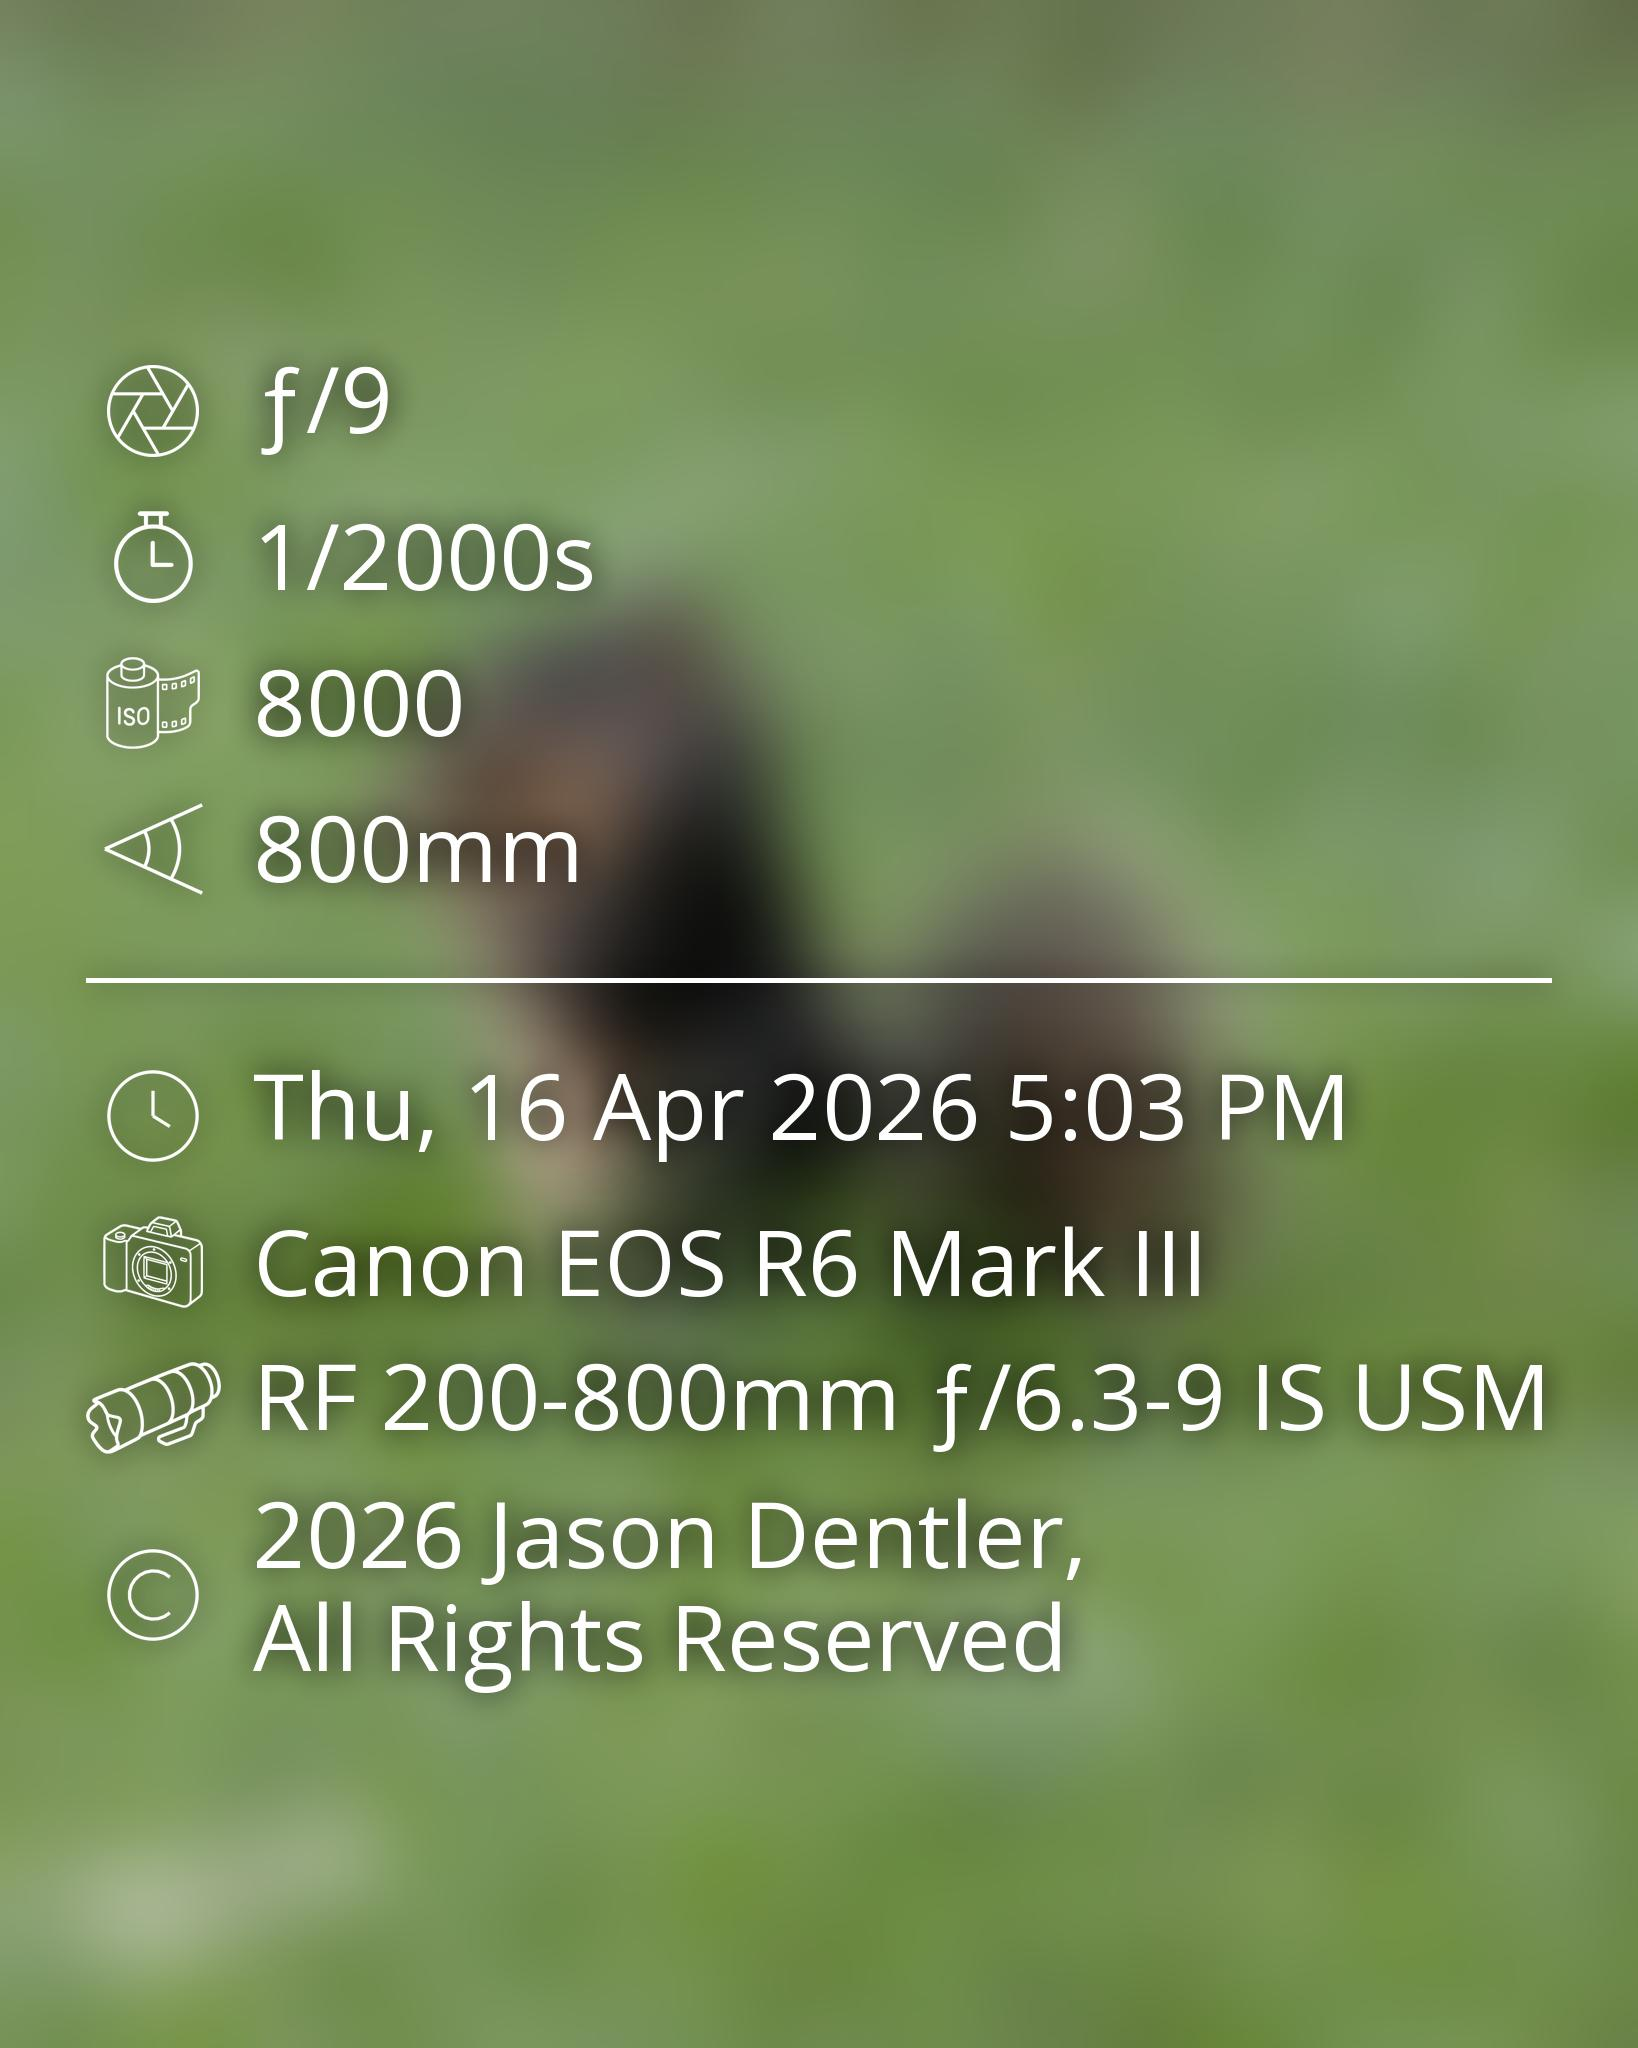
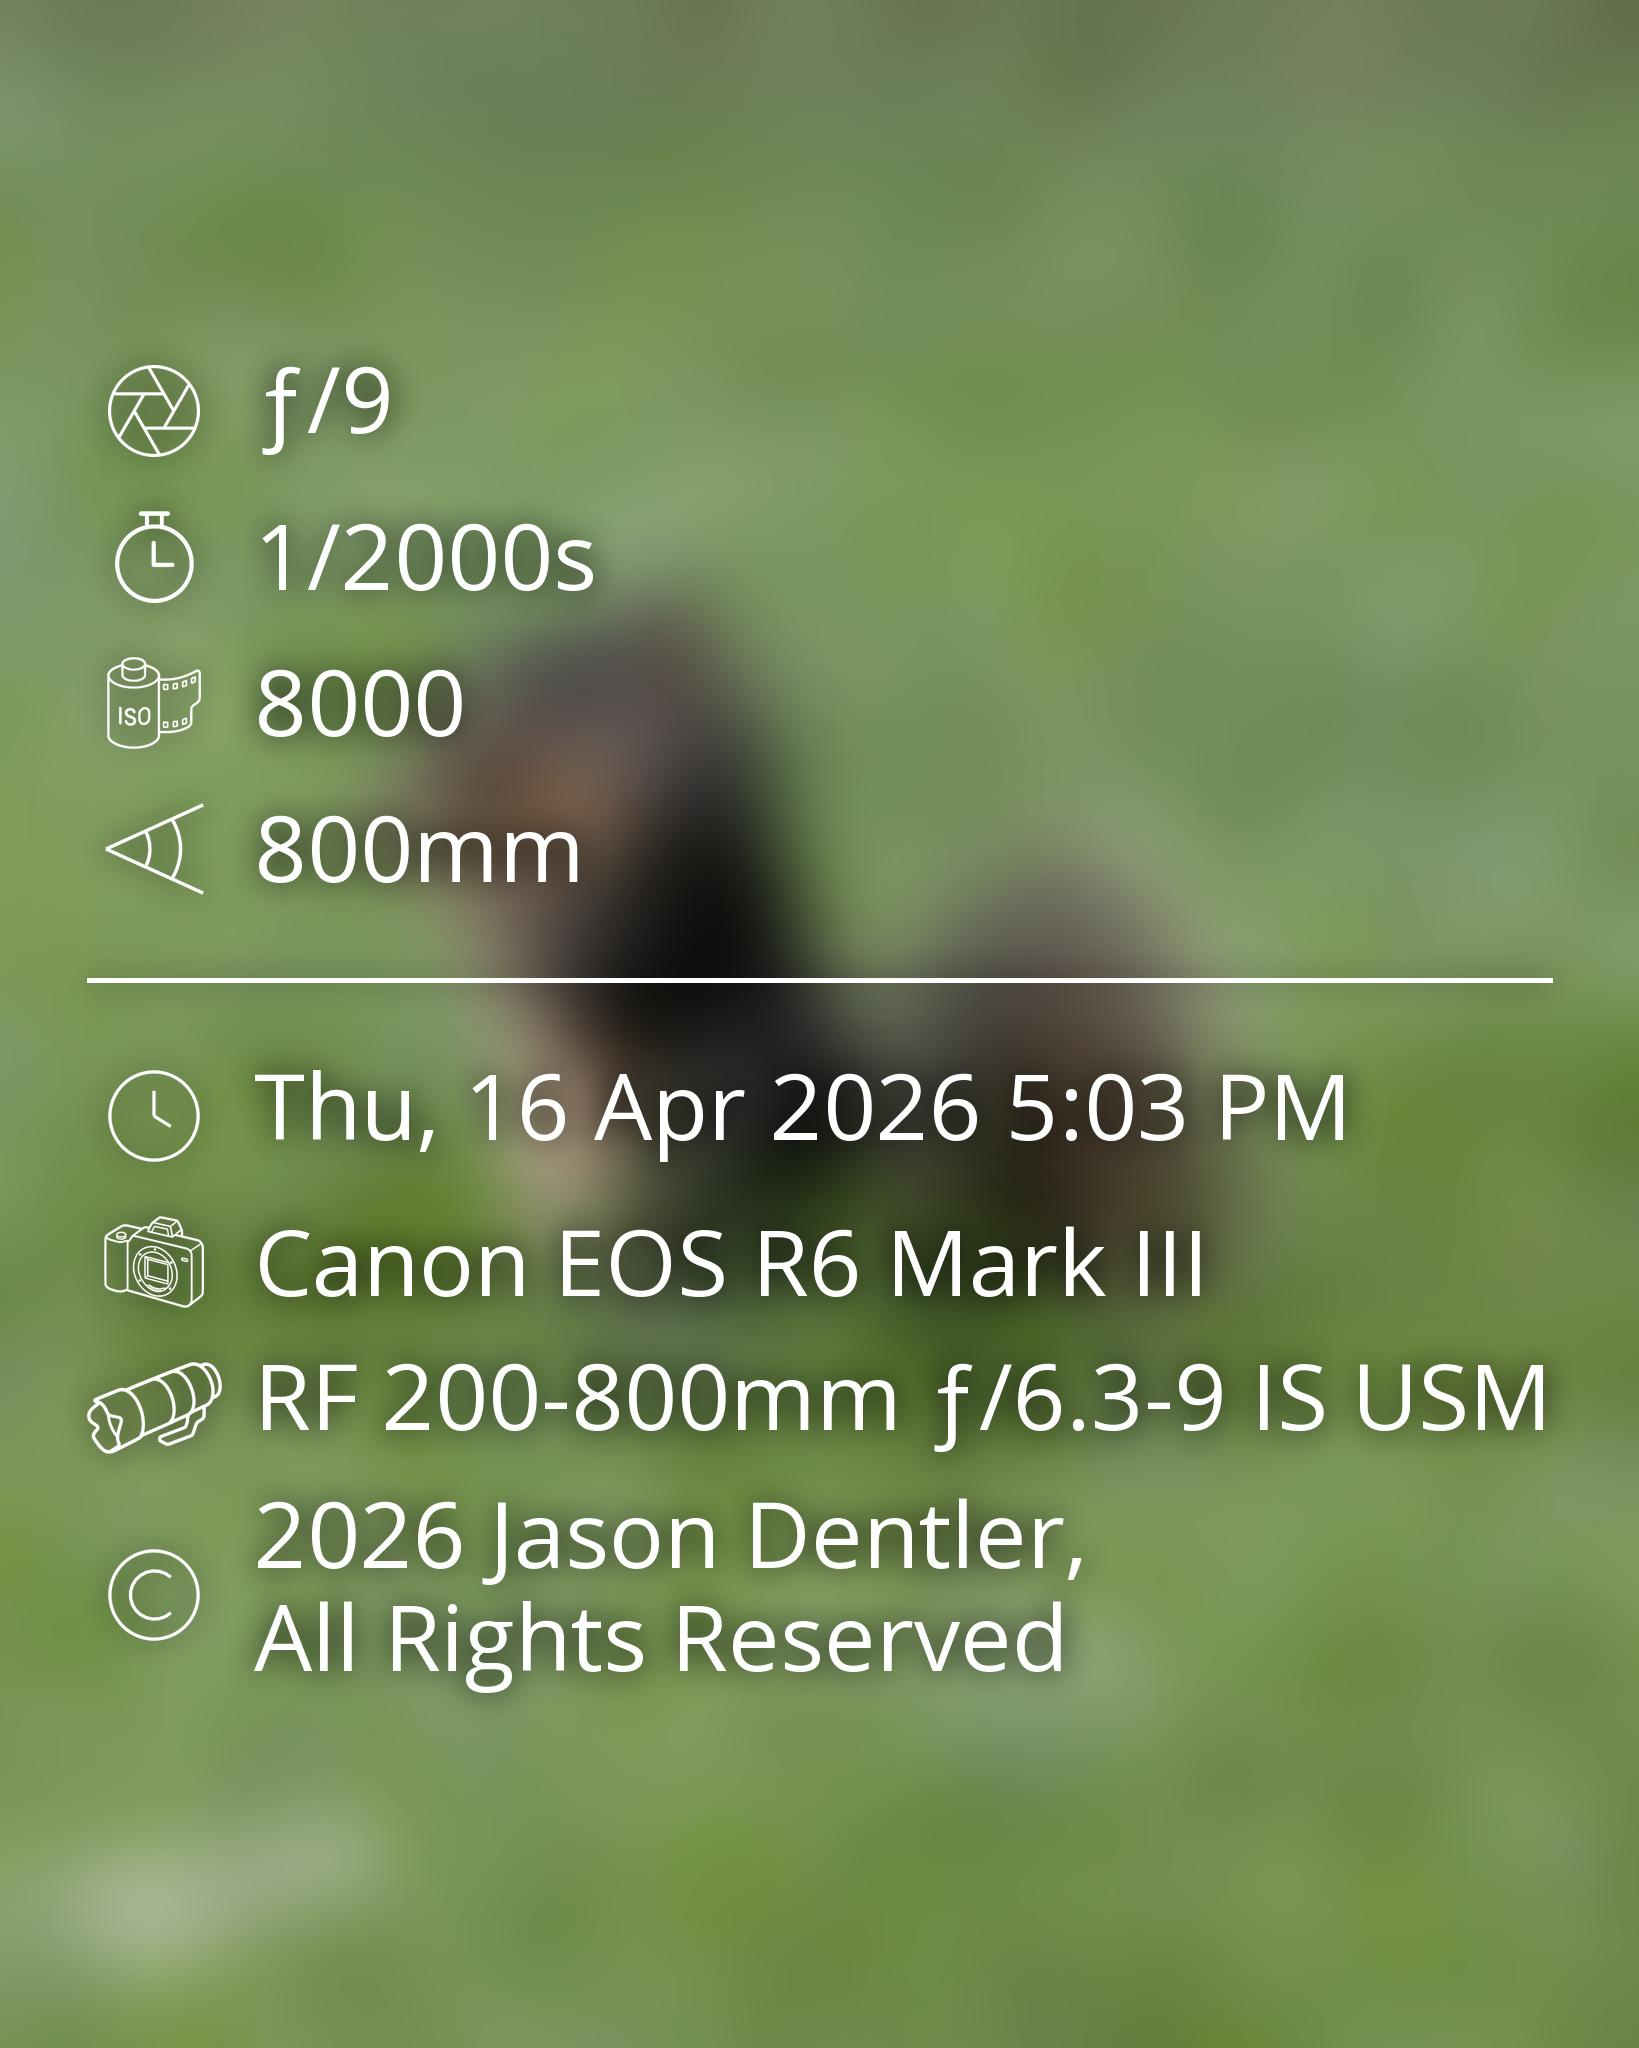
Generate 4:5 post images for portrait samples
Create _post.jpg outputs for portrait images that are already 4:5 or skinnier
than 4:5. Exact 4:5 portraits are copied directly from the original, while
skinnier portraits are padded left and right to reach 4:5.

Update sample docs to show the new post images, add filename captions, and keep
the README sample section aligned with the Cardinal sample. Refresh affected
sample outputs and add processor tests for the new portrait post behavior.

diff --git a/tests/test_processor.py b/tests/test_processor.py
@@ -11,6 +11,7 @@ from src.processor import (
     classify_aspect_ratio,
     get_landscape_split_count,
     make_4_5_portrait_image,
+    needs_post_image,
     process_photo,
     split_landscape_image,
 )
@@ -63,6 +64,12 @@ class ProcessorTests(unittest.TestCase):
         self.assertEqual(classify_aspect_ratio(1200, 1200), "square")
         self.assertEqual(classify_aspect_ratio(1920, 1080), "landscape")
 
+    def test_post_image_is_needed_for_square_landscape_and_4_5_portrait(self):
+        self.assertTrue(needs_post_image(800, 1000))
+        self.assertTrue(needs_post_image(900, 1600))
+        self.assertTrue(needs_post_image(1200, 1200))
+        self.assertTrue(needs_post_image(1600, 1000))
+
     def test_4_5_post_image_caps_extreme_landscape_width(self):
         image = Image.new("RGB", (4000, 1000), (180, 200, 210))
 
@@ -88,21 +95,26 @@ class ProcessorTests(unittest.TestCase):
         self.assertEqual([split.size for split in splits], [(800, 1000)] * 2)
 
     @patch("src.processor.exiftool.ExifToolHelper", FakeExifToolHelper)
-    def test_process_photo_writes_portrait_outputs_and_preserves_raw_companion_text(self):
+    def test_process_photo_copies_exact_4_5_portrait_post_image(self):
         with tempfile.TemporaryDirectory() as temp_dir:
             input_path = Path(temp_dir) / "sony.jpg"
-            Image.new("RGB", (1080, 1440), (180, 200, 210)).save(input_path)
+            Image.new("RGB", (800, 1000), (180, 200, 210)).save(input_path)
+            input_content = input_path.read_bytes()
 
             with contextlib.redirect_stdout(io.StringIO()):
                 process_photo(str(input_path))
 
+            post_image = Path(temp_dir) / "sony_post.jpg"
             output_image = Path(temp_dir) / "sony_settings.jpg"
             output_text = Path(temp_dir) / "sony.txt"
             output_text_content = output_text.read_text()
 
+            self.assertTrue(post_image.exists())
             self.assertTrue(output_image.exists())
-            self.assertFalse((Path(temp_dir) / "sony_post.jpg").exists())
             self.assertFalse((Path(temp_dir) / "sony_blurred.jpg").exists())
+            self.assertEqual(post_image.read_bytes(), input_content)
+            self.assertEqual(image_size(post_image), (800, 1000))
+            self.assertEqual(image_size(output_image), (800, 1000))
             self.assertTrue(output_text.exists())
             self.assertIn("📸 Camera: ILCE-7M5", output_text_content)
             self.assertIn(
@@ -117,6 +129,24 @@ class ProcessorTests(unittest.TestCase):
                     if instance.execute_args
                 )
             )
+
+    @patch("src.processor.exiftool.ExifToolHelper", FakeExifToolHelper)
+    def test_process_photo_pads_skinny_portrait_before_metadata_output(self):
+        with tempfile.TemporaryDirectory() as temp_dir:
+            input_path = Path(temp_dir) / "skinny.jpg"
+            Image.new("RGB", (900, 1600), (180, 200, 210)).save(input_path)
+
+            with contextlib.redirect_stdout(io.StringIO()):
+                process_photo(str(input_path))
+
+            post_image = Path(temp_dir) / "skinny_post.jpg"
+            metadata_image = Path(temp_dir) / "skinny_settings.jpg"
+
+            self.assertTrue(post_image.exists())
+            self.assertTrue(metadata_image.exists())
+            self.assertFalse((Path(temp_dir) / "skinny_blurred.jpg").exists())
+            self.assertEqual(image_size(post_image), (1280, 1600))
+            self.assertEqual(image_size(metadata_image), (1280, 1600))
 
     @patch("src.processor.exiftool.ExifToolHelper", FakeExifToolHelper)
     def test_process_photo_pads_square_image_before_metadata_output(self):

diff --git a/src/processor.py b/src/processor.py
@@ -7,7 +7,9 @@
 #     http://www.apache.org/licenses/LICENSE-2.0
 
 import glob
+import math
 import os
+import shutil
 
 import exiftool
 from PIL import Image, ImageDraw, ImageFilter, ImageOps
@@ -43,6 +45,15 @@ def classify_aspect_ratio(width, height):
     return "portrait"
 
 
+def needs_post_image(width, height):
+    category = classify_aspect_ratio(width, height)
+    return category in ("square", "landscape") or width / height <= TARGET_PORTRAIT_RATIO
+
+
+def is_exact_4_5_portrait(width, height):
+    return width < height and width * 5 == height * 4
+
+
 def make_4_5_portrait_image(image):
     image = image.convert("RGB")
     width, height = image.size
@@ -52,9 +63,9 @@ def make_4_5_portrait_image(image):
         width, height = image.size
 
     if width / height > TARGET_PORTRAIT_RATIO:
-        canvas_size = (width, round(width / TARGET_PORTRAIT_RATIO))
+        canvas_size = (width, math.ceil(width / TARGET_PORTRAIT_RATIO))
     else:
-        canvas_size = (round(height * TARGET_PORTRAIT_RATIO), height)
+        canvas_size = (math.ceil(height * TARGET_PORTRAIT_RATIO), height)
 
     background = ImageOps.fit(image, canvas_size, method=Image.Resampling.LANCZOS)
     background = background.filter(ImageFilter.GaussianBlur(radius=40)).convert("RGB")
@@ -274,11 +285,15 @@ def process_photo(input_path):
         metadata_image = img
         generated_images = []
 
-        if category in ("square", "landscape"):
-            post_image = make_4_5_portrait_image(img)
+        if needs_post_image(*img.size):
             post_image_path = f"{base_name}_post.jpg"
-            save_jpeg(post_image, post_image_path)
-            copy_metadata(input_path, post_image_path)
+            if is_exact_4_5_portrait(*img.size):
+                shutil.copyfile(input_path, post_image_path)
+                post_image = img
+            else:
+                post_image = make_4_5_portrait_image(img)
+                save_jpeg(post_image, post_image_path)
+                copy_metadata(input_path, post_image_path)
             generated_images.append(post_image_path)
             metadata_image = post_image
 

diff --git a/Samples.md b/Samples.md
@@ -2,8 +2,18 @@
 
 ## Cottontail on a Rock
 
+<figure>
 <img src="./samples/20260106-IMG_3724.jpg" width="45%" />
+<figcaption><code>20260106-IMG_3724.jpg</code></figcaption>
+</figure>
+<figure>
+<img src="./samples/20260106-IMG_3724_post.jpg"  width="45%" />
+<figcaption><code>20260106-IMG_3724_post.jpg</code></figcaption>
+</figure>
+<figure>
 <img src="./samples/20260106-IMG_3724_settings.jpg"  width="45%" />
+<figcaption><code>20260106-IMG_3724_settings.jpg</code></figcaption>
+</figure>
 
 ```
 Title: Cottontail on a Rock
@@ -27,11 +37,26 @@ A rabbit sits on a rock in a wooded area covered in fallen leaves. The rabbit ha
 
 ## Cardinal on Railing
 
+<figure>
 <img src="./samples/20260403-IMG_0022.jpg"  width="45%" />
+<figcaption><code>20260403-IMG_0022.jpg</code></figcaption>
+</figure>
+<figure>
 <img src="./samples/20260403-IMG_0022_post.jpg"  width="45%" />
+<figcaption><code>20260403-IMG_0022_post.jpg</code></figcaption>
+</figure>
+<figure>
 <img src="./samples/20260403-IMG_0022_settings.jpg"  width="45%" />
+<figcaption><code>20260403-IMG_0022_settings.jpg</code></figcaption>
+</figure>
+<figure>
 <img src="./samples/20260403-IMG_0022_split_1.jpg"  width="45%" />
+<figcaption><code>20260403-IMG_0022_split_1.jpg</code></figcaption>
+</figure>
+<figure>
 <img src="./samples/20260403-IMG_0022_split_2.jpg"  width="45%" />
+<figcaption><code>20260403-IMG_0022_split_2.jpg</code></figcaption>
+</figure>
 
 ```
 Title: Cardinal on Railing
@@ -55,8 +80,18 @@ A male Northern Cardinal stands on a wooden railing against a blurred green back
 
 ## Canon EOS R6 Mark III
 
+<figure>
 <img src="./samples/20260416-DA8A2396.jpg"  width="45%" />
+<figcaption><code>20260416-DA8A2396.jpg</code></figcaption>
+</figure>
+<figure>
+<img src="./samples/20260416-DA8A2396_post.jpg"  width="45%" />
+<figcaption><code>20260416-DA8A2396_post.jpg</code></figcaption>
+</figure>
+<figure>
 <img src="./samples/20260416-DA8A2396_settings.jpg"  width="45%" />
+<figcaption><code>20260416-DA8A2396_settings.jpg</code></figcaption>
+</figure>
 
 ```
 Title: No title
@@ -79,8 +114,18 @@ No alt text
 
 ## Sony α7 V with Teleconverter
 
+<figure>
 <img src="./samples/20260727-DSC06191-IG.jpg"  width="45%" />
+<figcaption><code>20260727-DSC06191-IG.jpg</code></figcaption>
+</figure>
+<figure>
+<img src="./samples/20260727-DSC06191-IG_post.jpg"  width="45%" />
+<figcaption><code>20260727-DSC06191-IG_post.jpg</code></figcaption>
+</figure>
+<figure>
 <img src="./samples/20260727-DSC06191-IG_settings.jpg"  width="45%" />
+<figcaption><code>20260727-DSC06191-IG_settings.jpg</code></figcaption>
+</figure>
 
 ```
 Title: No title
@@ -103,11 +148,26 @@ No alt text
 
 ## Honeybees at Work
 
+<figure>
 <img src="./samples/20251226-IMG_4867.jpg" width="45%" />
+<figcaption><code>20251226-IMG_4867.jpg</code></figcaption>
+</figure>
+<figure>
 <img src="./samples/20251226-IMG_4867_post.jpg"  width="45%" />
+<figcaption><code>20251226-IMG_4867_post.jpg</code></figcaption>
+</figure>
+<figure>
 <img src="./samples/20251226-IMG_4867_settings.jpg"  width="45%" />
+<figcaption><code>20251226-IMG_4867_settings.jpg</code></figcaption>
+</figure>
+<figure>
 <img src="./samples/20251226-IMG_4867_split_1.jpg"  width="45%" />
+<figcaption><code>20251226-IMG_4867_split_1.jpg</code></figcaption>
+</figure>
+<figure>
 <img src="./samples/20251226-IMG_4867_split_2.jpg"  width="45%" />
+<figcaption><code>20251226-IMG_4867_split_2.jpg</code></figcaption>
+</figure>
 
 ```
 Title: Honeybees at Work
@@ -131,16 +191,46 @@ Close-up of several honeybees (Apis mellifera) on a wooden structure with a mesh
 
 ## Wide Panorama
 
+<figure>
 <img src="./samples/20260118-IMG_2243-Pano.jpg" width="45%" />
+<figcaption><code>20260118-IMG_2243-Pano.jpg</code></figcaption>
+</figure>
+<figure>
 <img src="./samples/20260118-IMG_2243-Pano_post.jpg"  width="45%" />
+<figcaption><code>20260118-IMG_2243-Pano_post.jpg</code></figcaption>
+</figure>
+<figure>
 <img src="./samples/20260118-IMG_2243-Pano_settings.jpg"  width="45%" />
+<figcaption><code>20260118-IMG_2243-Pano_settings.jpg</code></figcaption>
+</figure>
+<figure>
 <img src="./samples/20260118-IMG_2243-Pano_split_1.jpg"  width="45%" />
+<figcaption><code>20260118-IMG_2243-Pano_split_1.jpg</code></figcaption>
+</figure>
+<figure>
 <img src="./samples/20260118-IMG_2243-Pano_split_2.jpg"  width="45%" />
+<figcaption><code>20260118-IMG_2243-Pano_split_2.jpg</code></figcaption>
+</figure>
+<figure>
 <img src="./samples/20260118-IMG_2243-Pano_split_3.jpg"  width="45%" />
+<figcaption><code>20260118-IMG_2243-Pano_split_3.jpg</code></figcaption>
+</figure>
+<figure>
 <img src="./samples/20260118-IMG_2243-Pano_split_4.jpg"  width="45%" />
+<figcaption><code>20260118-IMG_2243-Pano_split_4.jpg</code></figcaption>
+</figure>
+<figure>
 <img src="./samples/20260118-IMG_2243-Pano_split_5.jpg"  width="45%" />
+<figcaption><code>20260118-IMG_2243-Pano_split_5.jpg</code></figcaption>
+</figure>
+<figure>
 <img src="./samples/20260118-IMG_2243-Pano_split_6.jpg"  width="45%" />
+<figcaption><code>20260118-IMG_2243-Pano_split_6.jpg</code></figcaption>
+</figure>
+<figure>
 <img src="./samples/20260118-IMG_2243-Pano_split_7.jpg"  width="45%" />
+<figcaption><code>20260118-IMG_2243-Pano_split_7.jpg</code></figcaption>
+</figure>
 
 ```
 Title: No title

diff --git a/README.md b/README.md
@@ -10,8 +10,28 @@ A Python command-line application that takes a JPEG image, extracts its EXIF met
 
 ## Samples
 
+## Cardinal on Railing
+
+<figure>
 <img src="./samples/20260403-IMG_0022.jpg"  width="45%" />
+<figcaption><code>20260403-IMG_0022.jpg</code></figcaption>
+</figure>
+<figure>
+<img src="./samples/20260403-IMG_0022_post.jpg"  width="45%" />
+<figcaption><code>20260403-IMG_0022_post.jpg</code></figcaption>
+</figure>
+<figure>
 <img src="./samples/20260403-IMG_0022_settings.jpg"  width="45%" />
+<figcaption><code>20260403-IMG_0022_settings.jpg</code></figcaption>
+</figure>
+<figure>
+<img src="./samples/20260403-IMG_0022_split_1.jpg"  width="45%" />
+<figcaption><code>20260403-IMG_0022_split_1.jpg</code></figcaption>
+</figure>
+<figure>
+<img src="./samples/20260403-IMG_0022_split_2.jpg"  width="45%" />
+<figcaption><code>20260403-IMG_0022_split_2.jpg</code></figcaption>
+</figure>
 
 ```
 Title: Cardinal on Railing
@@ -63,7 +83,7 @@ Run the script from the project root and pass the path to your JPEG file:
 python3 src/main.py path/to/your/photo.jpg
 ```
 
-This will output social-ready image files in the same directory. All images get `[original_filename]_settings.jpg`. Square and landscape images also get a 4:5 `[original_filename]_post.jpg`. Landscape images also get numbered `[original_filename]_split_N.jpg` files. It will also output `[original_filename].txt` containing important exif data for writing a social media post.
+This will output social-ready image files in the same directory. All images get `[original_filename]_settings.jpg`. Square, landscape, and portrait images that are 4:5 or skinnier also get a 4:5 `[original_filename]_post.jpg`; exact 4:5 portrait posts are copied from the original, and skinnier portrait posts use left/right padding. Landscape images also get numbered `[original_filename]_split_N.jpg` files. Wide panoramas are split into as many near-4:5 images as practical. Split images do not add padding between adjacent splits; padding is added to the top and bottom where possible, and any required side padding is limited to the left edge of the first split and the right edge of the last split. It will also output `[original_filename].txt` containing important exif data for writing a social media post.
 
 To run it on an entire folder:
 
